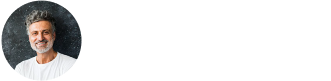
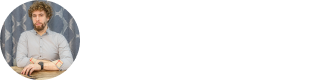
changed ceo photo

Changed region(s): [[0.0, 0.0, 0.2727, 1.0]]

diff --git a/index.html b/index.html
@@ -454,7 +454,7 @@
 					<img src="img/yay.png" alt="">
 				</div>
 				<div class="partners__item">
-					<img src="img/ceo-yay.png" alt="">
+					<a href="https://www.linkedin.com/in/nikolayepifanov"><img src="img/ceo-yay.png" alt=""></a>
 				</div>
 			</div>
 		</section>
